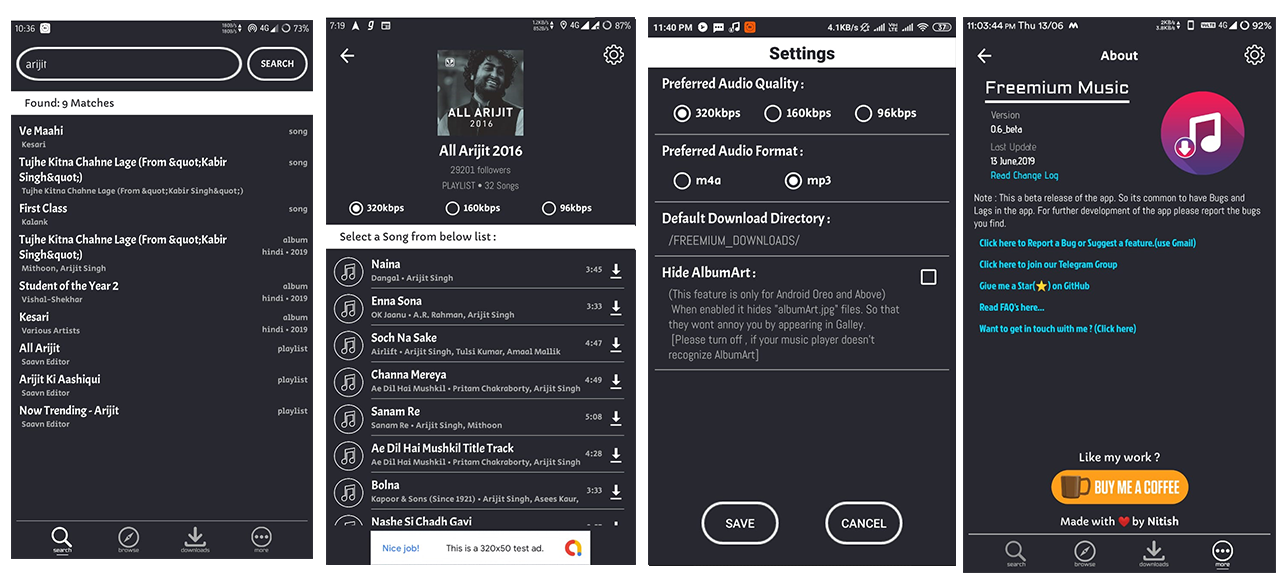
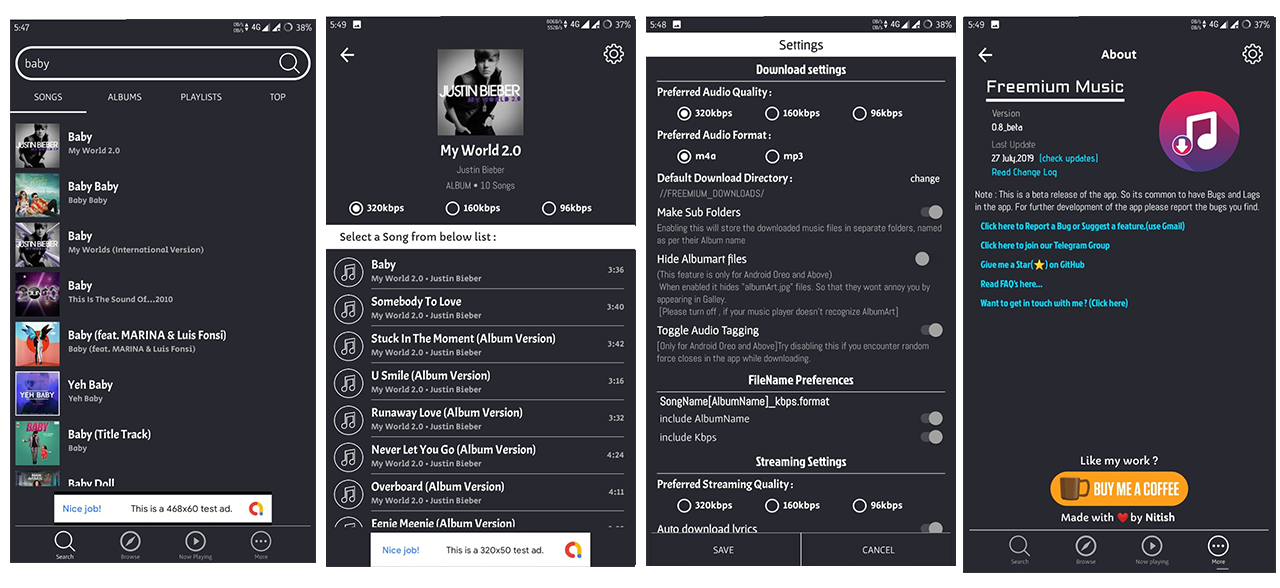
v0.8b

diff --git a/README.md b/README.md
@@ -1,6 +1,6 @@
 <img src="https://github.com/NitishGadangi/Freemium-App/blob/master/icon_app.png?raw=true" align="right" height='250' />
 
-<h1> Freemium Music App (v0.2beta)</h1>
+<h1> Freemium Music App (v0.6beta)</h1>
 <img src="https://img.shields.io/badge/Build-Beta-blue.svg" />
 <img src="https://img.shields.io/badge/Version-0.6-green.svg" />
 <img src="https://img.shields.io/badge/Required-Android%206.0%2B-brightgreen.svg" />
@@ -13,24 +13,27 @@ So I decided why not make an app so that everyone can enjoy it.... and this app 
 <br>
 
 
-### Change Log (version 0.6_beta)
-* Made UI Smooth by adding new animations for seamless transitions between activities.
-* Added new settings tab to configure defaults.
-* Added Mp3 support.
-* Now you can hide AlbumArt files if needed (check settings page).
-* Improved UI for Browse Page.
-* Now Search Page and Browse page runs in seperate thread. So no lags anymore.
-* Open downloads folders right from the app.
-* New Icon designed by [Pruthvi Chandra](http://apkfolks.com).
-* Now you can buy me a coffee ☕
-* Fixed Several Bugs reported by many users.
-* Fixed random force close issues.
-* Fixed random appearance of XML code in file names.
+### (version 0.8_beta) (Released: 27 July,2019)
+* Now the app is super smooth(Far better than previous build).
+* New UI for search tab. Now will get more intutive and segregated results.
+  * Now you can find your songs more easily.
+* New Improved Settings tab with various requested features.
+  * Now you can set file name format.
+  * You can change download location and turn off Subfolders.
+  * Option to Enable/Disable audio tagging.
+* Added option to enter url in browse tab.
+* Updated the download notification style.
+  * Now you can Pause/Resume or Cancel your Ongoing downloads.
+* Now you can check for updates with in the app (go to More Tab).
+* Now you can donate as per your choice ([buy me a coffee ☕](https://github.com/NitishGadangi/Freemium-App/blob/master/buy_me_coffee.md)).
+* Need to wait for next build for complete stable build with Online streaming feature.
+
+**Try reading [FAQs](https://github.com/NitishGadangi/Freemium-App/blob/master/FAQ's.md). They might solve your issues with the app**
 
 **Consider Giving a ⭐ [here](https://github.com/NitishGadangi/Freemium-App) if you like my work**
 
 ### Features:
-* Download High-Quality Music .m4a (320kbps or 160kbps or 96kbps) directly into your local storage.
+* Download High-Quality Music (.m4a or .mp3) (320kbps or 160kbps or 96kbps | AAC) directly into your local storage.
 * Enabled ID3 tagging and Album art features.
 * So every song will be compiled with song info and Album Art.
 * Search Songs directly from Saavn Database with Search feature.
@@ -42,7 +45,10 @@ So I decided why not make an app so that everyone can enjoy it.... and this app 
 
 ### Download from here:
 
-[![](https://github.com/NitishGadangi/Freemium-App/blob/master/click_here.png?raw=true)](https://www.mediafire.com/file/79nwirbj2vvunjg/Freemium_Music_v0.6Beta.apk/file)
+[![](https://github.com/NitishGadangi/Freemium-App/blob/master/click_here.png?raw=true)](https://github.com/NitishGadangi/Freemium-App/releases/download/0.6b/Freemium_Music_v0.6Beta.apk)
+
+### Like my work?
+[![Buy me a coffee](https://github.com/NitishGadangi/Freemium-App/blob/master/ic_buy_me_cofee.png?raw=true)](https://github.com/NitishGadangi/Freemium-App/blob/master/buy_me_coffee.md)
 
 ### Things to consider:
 * The app is still in beta. So having bugs is common. If you found any bug, please report it here [Telegram Group](https://t.me/joinchat/HH4B2xFVtt6_2hbJl_qKQA).
@@ -55,5 +61,8 @@ So I decided why not make an app so that everyone can enjoy it.... and this app 
 * Revamp the downloads page.
 * Make the app more Smoother
 * And you say... (mail me: apps.nitish@gmail.com)!
+
+----------------------------------------------------------------------
+**Thank you [apkfolks.com](http://apkfolks.com) for awesome icon**
 
 **Made with ❤ by Nitish**

diff --git a/change_log.md b/change_log.md
@@ -1,5 +1,20 @@
 ## Whats new ?
-### (version 0.6_beta)
+### (version 0.8_beta) (Released: 27 July,2019)
+* Now the app is super smooth (far better than previous build).
+* New UI for search tab. Now will get more intutive and segregated results.
+  * Now you can find your songs more easily.
+* New Improved Settings tab with various requested features.
+  * Now you can set file name format.
+  * You can change download location and turn off Subfolders.
+  * Option to Enable/Disable audio tagging.
+* Added option to enter url in browse tab.
+* Updated the download notification style.
+  * Now you can Pause/Resume or Cancel your Ongoing downloads.
+* Now you can check for updates with in the app (go to More Tab).
+* Now you can donate as per your choice ([buy me a coffee ☕](https://github.com/NitishGadangi/Freemium-App/blob/master/buy_me_coffee.md)).
+* Need to wait for next build for complete stable build with Online streaming feature.
+
+### (version 0.6_beta) (Released: 13 June,2019)
 * Made UI Smooth by adding new animations for seamless transitions between activities.
 * Added new settings tab to configure defaults.
 * Added Mp3 support.
@@ -8,7 +23,7 @@
 * Now Search Page and Browse page runs in seperate thread. So no lags anymore.
 * Open downloads folders right from the app.
 * New Icon designed by [Pruthvi Chandra](http://apkfolks.com).
-* Now you can buy me a coffee ☕
+* Now you can [buy me a coffee ☕](https://github.com/NitishGadangi/Freemium-App/blob/master/buy_me_coffee.md)
 * Fixed Several Bugs reported by many users.
 * Fixed random force close issues.
 * Fixed random appearance of XML code in file names.

diff --git a/FAQ's.md b/FAQ's.md
@@ -46,9 +46,10 @@
 * ***Why ads?***
    * Ad's allow me to earn few bucks for my pocket money.
    * However I won't get anything unless you click on any of those Ad's.
-   * If you like my work you can [Buy me a coffee]() as a token of encouragement.
+   * If you like my work you can [Buy me a coffee](https://github.com/NitishGadangi/Freemium-App/blob/master/buy_me_coffee.md) as a token of encouragement.
     
 * ***Like my work?***
    * I am an Undergraduate Student who enjoys making these kinds of Apps in free time.
-   * You can [Buy me a cofee](). It will encourage me and help me to spend my free time for further development of the app.
+   * [![Buy Me Coffee](https://github.com/NitishGadangi/Freemium-App/blob/master/ic_buy_me_cofee.png?raw=true)](https://github.com/NitishGadangi/Freemium-App/blob/master/buy_me_coffee.md)
+   * You can [Buy me a cofee](https://github.com/NitishGadangi/Freemium-App/blob/master/buy_me_coffee.md). It will encourage me and help me to spend my free time for further development of the app.
    * ***Or you can help me by clicking on one Ad a day in the app*** which will generate ad revenue to me (Quite less than a coffee).

diff --git a/buy_me_coffee.md b/buy_me_coffee.md
@@ -1,0 +1,14 @@
+![Buy Me Coffee](https://github.com/NitishGadangi/Freemium-App/blob/master/ic_buy_me_cofee.png?raw=true)
+
+I am undergraduate student who enjoys making these kind of projects in free time.
+
+You can encourage me by buying me a coffee, which motivates me to work consistently on this project and provide you
+regular updates with awesome new features.
+
+Cofee Size | Link
+-----------|--------
+Medium|https://p-y.tm/kHt-P4t
+Large|https://p-y.tm/BdS-La9
+X-Large|https://p-y.tm/cf4-xgQ
+Custom|https://p-y.tm/W8-4mek
+
